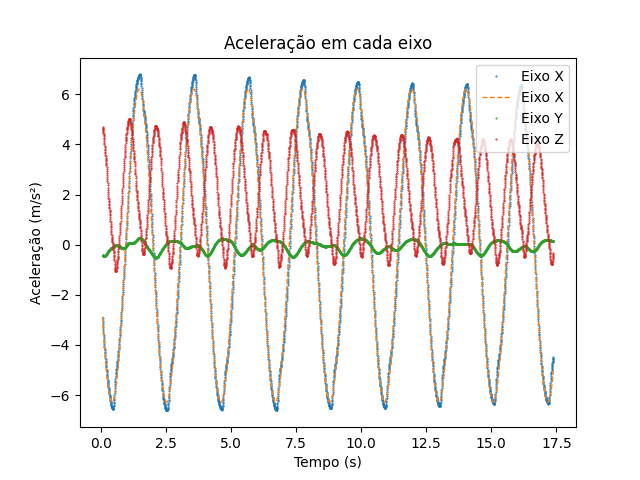
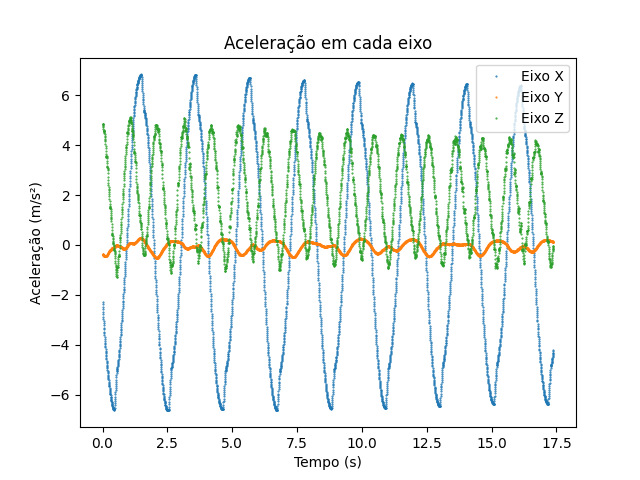
correções

diff --git a/Tarefa4/codigo/plotagemLonga.py b/Tarefa4/codigo/plotagemLonga.py
@@ -1,6 +1,7 @@
 import pandas as pd
 import matplotlib.pyplot as plt
 import scipy.optimize as opt
+from scipy import signal
 import numpy as np
 from func_seno import func_seno
 
@@ -8,47 +9,28 @@ diretorioImgs = "Tarefa4/imgs/oscilacoesLongas"
 diretorioData = "Tarefa4/data/oscilacoesLongas"
 
 df = pd.read_csv(diretorioData + '/dados.csv')
-rolling_window = 15
-
-df['abs_movel'] = df['abs'].rolling(window=rolling_window).mean()
-df['x_movel'] = df['x'].rolling(window=rolling_window).mean()
-df['y_movel'] = df['y'].rolling(window=rolling_window).mean()
-df['z_movel'] = df['z'].rolling(window=rolling_window).mean()
-
-df = df.dropna()
 
 tempo = df['t']
-acel = df['abs_movel']
-acel_x = df['x_movel']
-acel_y = df['y_movel']
-acel_z = df['z_movel']
-     
-popt, pcov = opt.curve_fit(func_seno, tempo, acel, p0=[0.85, 6.28, 1, 0.75])
-acel_ajustada = func_seno(tempo, *popt)
+ax = df['x']
+ay = df['y']
+az = df['z']
+
+popt, pcov = opt.curve_fit(func_seno, tempo, ax, p0=[np.max(ax), 3.14, 0, 0])
+a_ajustada = func_seno(tempo, *popt)
 erro = np.diag(pcov)**0.5
 
 with open(diretorioData + "/ajusteAcel.txt", 'w') as f:
     f.write(f"Formato: A * sin(Bt + C) + D\n")
     f.write(f"Parâmetros do ajuste: {popt}\n")
     f.write(f"Erro dos parâmetros: {erro}\n")
-    f.write(f"Gravidade obtida: {(popt[1]/2) ** 2}")
-
-# popt, pcov = opt.curve_fit(func_seno, tempo, acel_x, p0=[0.85, 3.14, 1, 0.75])
-# acel_x_ajustada = func_seno(tempo, *popt)
-# erro = np.diag(pcov)**0.5
-
-# with open(diretorioData + "/ajusteAcelX.txt", 'w') as f:
-#     f.write(f"Formato: A * sin(Bt + C) + D\n")
-#     f.write(f"Parâmetros do ajuste: {popt}\n")
-#     f.write(f"Erro dos parâmetros: {erro}\n")
-#     f.write(f"Gravidade obtida: {(popt[1]) ** 2}")
+    f.write(f"Gravidade obtida: {(popt[1]) ** 2}")
 
 plt.title("Aceleração em cada eixo")
 plt.xlabel("Tempo (s)")
 plt.ylabel("Aceleração (m/s²)")
-plt.plot(tempo, acel_x, 'o', label='Eixo X', markersize=.5)
-plt.plot(tempo, acel_y, 'o', label='Eixo Y', markersize=.5)
-plt.plot(tempo, acel_z, 'o', label='Eixo Z', markersize=.5)
+plt.plot(tempo, ax, 'o', label='Eixo X', markersize=.5)
+plt.plot(tempo, ay, 'o', label='Eixo Y', markersize=.5)
+plt.plot(tempo, az, 'o', label='Eixo Z', markersize=.5)
 plt.legend(loc='upper right')
 plt.savefig(diretorioImgs + "/acel_por_eixo.png")
 plt.close()
@@ -56,8 +38,8 @@ plt.close()
 plt.title("Aceleração total")
 plt.xlabel("Tempo (s)")
 plt.ylabel("Aceleração (m/s²)")
-plt.plot(tempo, acel, 'o', label='Dados brutos', markersize=.5)
-plt.plot(tempo, acel_ajustada, '--', label='Ajuste senoidal', linewidth='1')
+plt.plot(tempo, ax, 'o', label='Dados brutos', markersize=.5)
+plt.plot(tempo, a_ajustada, '--', label='Ajuste senoidal', linewidth='1')
 plt.legend(loc='upper right')
 plt.savefig(diretorioImgs + "/acel.png")
 plt.close()

diff --git a/Tarefa4/codigo/plotagemDissipacao.py b/Tarefa4/codigo/plotagemDissipacao.py
@@ -59,7 +59,7 @@ plt.close()
 
 plt.title("Aceleração total")
 plt.xlabel("Tempo (s)")
-plt.ylabel("Aceleração (rad/s²)")
+plt.ylabel("Aceleração (m/s²)")
 plt.plot(tempo, ax, 'o', label='Dados brutos', markersize=.5)
 plt.plot(tempo, a_ajustada, '--', label='Ajuste senoidal', linewidth='1')
 plt.legend(loc='upper right')